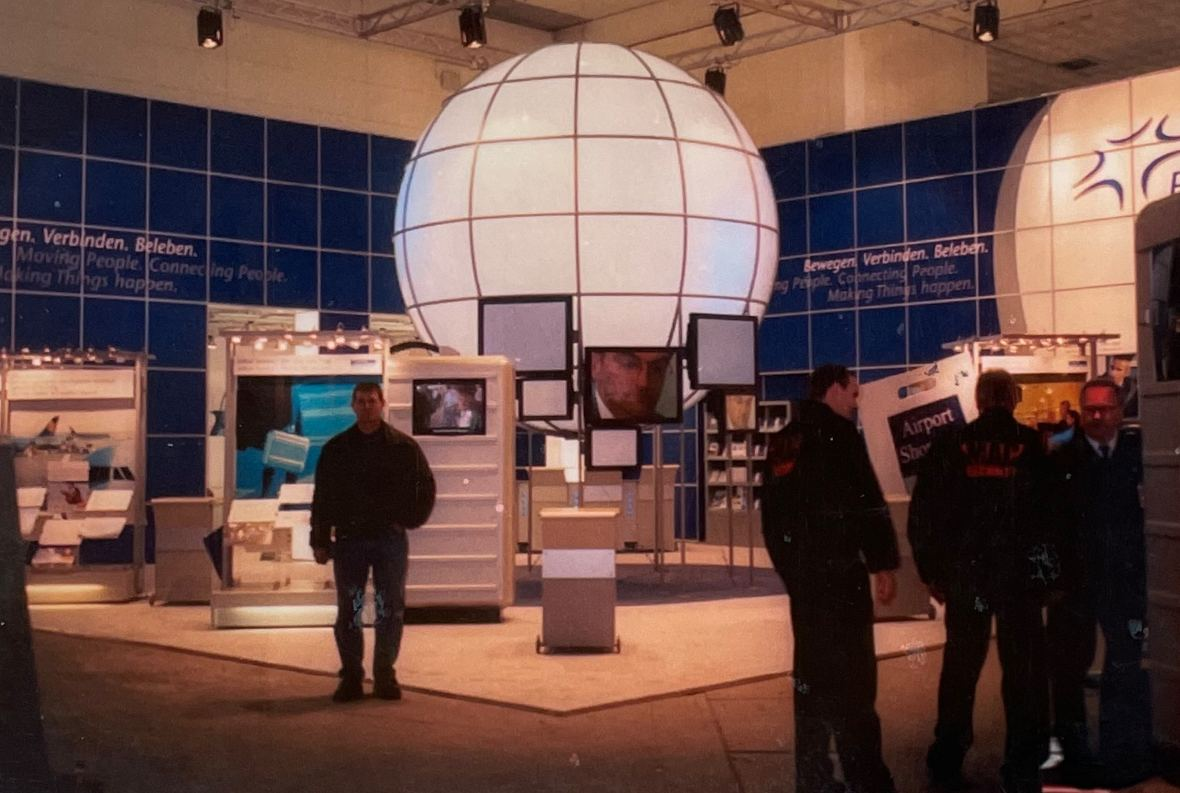
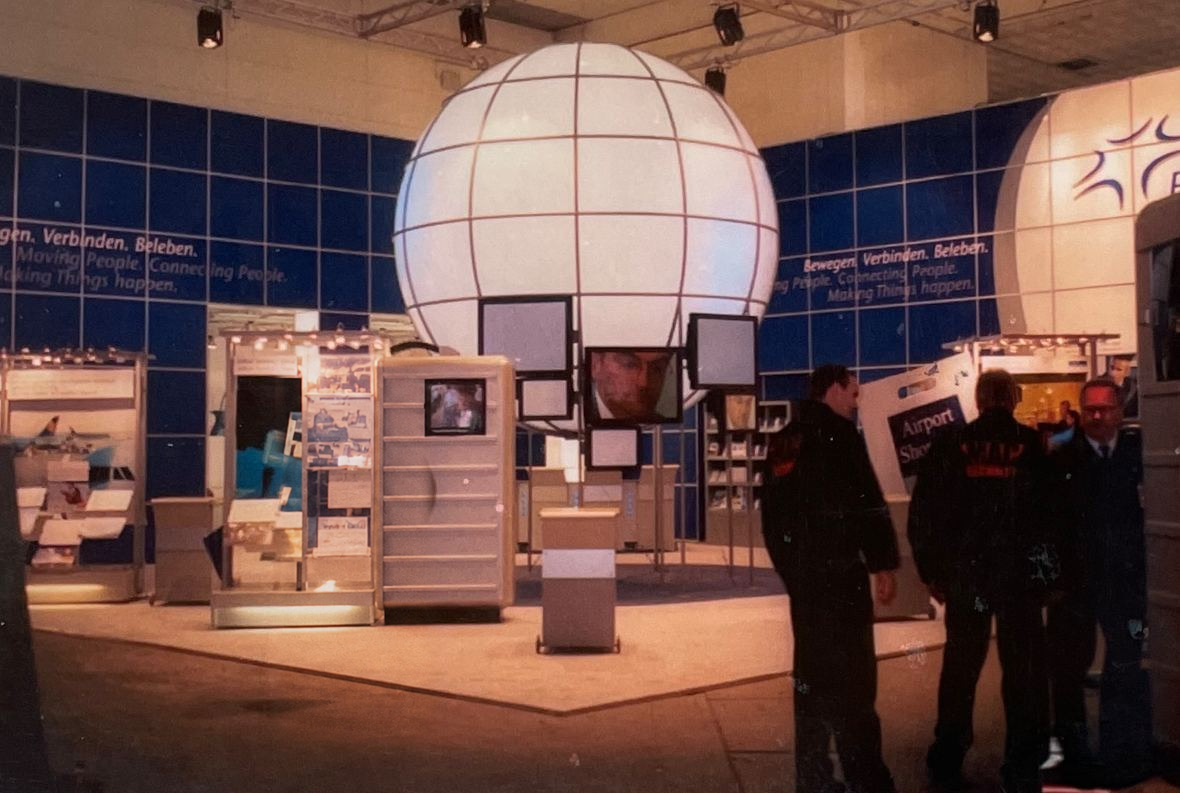
Historie-Teaser: Kugel vollständig, Person retuschiert; 6 Referenzbilder raus; Leistungen-Claim ohne makellos

Changed region(s): [[0.2136, 0.4237, 0.3661, 0.9079]]

diff --git a/referenzen/index.html b/referenzen/index.html
@@ -49,7 +49,7 @@ img:is([sizes=auto i],[sizes^="auto," i]){contain-intrinsic-size:3000px 1500px}
 <link rel="preload" href="../nxm/fonts/oxygen-300-latin.woff2" as="font" type="font/woff2" crossorigin>
 <link rel="preload" href="../nxm/fonts/oxygen-400-latin.woff2" as="font" type="font/woff2" crossorigin>
 <link rel="preload" href="../nxm/fonts/oxygen-700-latin.woff2" as="font" type="font/woff2" crossorigin>
-<link rel="stylesheet" href="../nxm/nxm.css?v=46">
+<link rel="stylesheet" href="../nxm/nxm.css?v=47">
 <meta name="theme-color" content="#141414">
 </head>
 <body class="nxm-hero wp-singular page-template page-template-page-full-width-image page-template-page-full-width-image-php page page-id-209 wp-theme-erdel">
@@ -121,20 +121,6 @@ img:is([sizes=auto i],[sizes^="auto," i]){contain-intrinsic-size:3000px 1500px}
                     <h2>
                         Einblicke in unsere&nbsp;Arbeit                    </h2>
                 </div>
-                                        <div class="col-12 col-sm-4 portfolio-item">
-                    <div class="gallery-image-container">
-                            <a href="./#" class="fl-gallery">
-                                <img decoding="async" class="img-fluid" src="../wp-content/uploads/2022/10/erdel-metallbau-kelkheim-rhein-main-metallbauer-unternehmen-galerie-referenzen-42.jpg" title="erdel-metallbau-kelkheim-rhein-main-metallbauer-unternehmen-galerie-referenzen (42)" alt="" />
-                            </a>
-                    </div>
-                </div>
-                            <div class="col-12 col-sm-4 portfolio-item">
-                    <div class="gallery-image-container">
-                            <a href="./#" class="fl-gallery">
-                                <img decoding="async" class="img-fluid" src="../wp-content/uploads/2022/10/erdel-metallbau-kelkheim-rhein-main-metallbauer-unternehmen-galerie-referenzen-27.jpg" title="erdel-metallbau-kelkheim-rhein-main-metallbauer-unternehmen-galerie-referenzen (27)" alt="" />
-                            </a>
-                    </div>
-                </div>
                             <div class="col-12 col-sm-4 portfolio-item">
                     <div class="gallery-image-container">
                             <a href="./#" class="fl-gallery">
@@ -145,21 +131,7 @@ img:is([sizes=auto i],[sizes^="auto," i]){contain-intrinsic-size:3000px 1500px}
                             <div class="col-12 col-sm-4 portfolio-item">
                     <div class="gallery-image-container">
                             <a href="./#" class="fl-gallery">
-                                <img decoding="async" class="img-fluid" src="../wp-content/uploads/2022/10/erdel-metallbau-kelkheim-rhein-main-metallbauer-unternehmen-galerie-referenzen-22.jpg" title="erdel-metallbau-kelkheim-rhein-main-metallbauer-unternehmen-galerie-referenzen (22)" alt="" />
-                            </a>
-                    </div>
-                </div>
-                            <div class="col-12 col-sm-4 portfolio-item">
-                    <div class="gallery-image-container">
-                            <a href="./#" class="fl-gallery">
                                 <img decoding="async" class="img-fluid" src="../wp-content/uploads/2022/10/erdel-metallbau-kelkheim-rhein-main-metallbauer-unternehmen-galerie-referenzen-17.jpg" title="erdel-metallbau-kelkheim-rhein-main-metallbauer-unternehmen-galerie-referenzen (17)" alt="" />
-                            </a>
-                    </div>
-                </div>
-                            <div class="col-12 col-sm-4 portfolio-item">
-                    <div class="gallery-image-container">
-                            <a href="./#" class="fl-gallery">
-                                <img decoding="async" class="img-fluid" src="../wp-content/uploads/2022/10/erdel-metallbau-kelkheim-rhein-main-metallbauer-unternehmen-galerie-referenzen-14.jpg" title="erdel-metallbau-kelkheim-rhein-main-metallbauer-unternehmen-galerie-referenzen (14)" alt="" />
                             </a>
                     </div>
                 </div>
@@ -237,20 +209,6 @@ img:is([sizes=auto i],[sizes^="auto," i]){contain-intrinsic-size:3000px 1500px}
                     <div class="gallery-image-container">
                             <a href="./#" class="fl-gallery">
                                 <img decoding="async" class="img-fluid" src="../wp-content/uploads/2022/10/erdel-metallbau-kelkheim-rhein-main-metallbauer-unternehmen-galerie-referenzen-10.jpg" title="erdel-metallbau-kelkheim-rhein-main-metallbauer-unternehmen-galerie-referenzen (10)" alt="" />
-                            </a>
-                    </div>
-                </div>
-                            <div class="col-12 col-sm-4 portfolio-item">
-                    <div class="gallery-image-container">
-                            <a href="./#" class="fl-gallery">
-                                <img decoding="async" class="img-fluid" src="../wp-content/uploads/2022/10/erdel-metallbau-kelkheim-rhein-main-metallbauer-unternehmen-galerie-referenzen-3.jpg" title="erdel-metallbau-kelkheim-rhein-main-metallbauer-unternehmen-galerie-referenzen (3)" alt="" />
-                            </a>
-                    </div>
-                </div>
-                            <div class="col-12 col-sm-4 portfolio-item">
-                    <div class="gallery-image-container">
-                            <a href="./#" class="fl-gallery">
-                                <img decoding="async" class="img-fluid" src="../wp-content/uploads/2022/10/erdel-metallbau-kelkheim-rhein-main-metallbauer-unternehmen-galerie-referenzen-1.jpg" title="erdel-metallbau-kelkheim-rhein-main-metallbauer-unternehmen-galerie-referenzen (1)" alt="" />
                             </a>
                     </div>
                 </div>

diff --git a/leistungen/index.html b/leistungen/index.html
@@ -49,7 +49,7 @@ img:is([sizes=auto i],[sizes^="auto," i]){contain-intrinsic-size:3000px 1500px}
 <link rel="preload" href="../nxm/fonts/oxygen-300-latin.woff2" as="font" type="font/woff2" crossorigin>
 <link rel="preload" href="../nxm/fonts/oxygen-400-latin.woff2" as="font" type="font/woff2" crossorigin>
 <link rel="preload" href="../nxm/fonts/oxygen-700-latin.woff2" as="font" type="font/woff2" crossorigin>
-<link rel="stylesheet" href="../nxm/nxm.css?v=46">
+<link rel="stylesheet" href="../nxm/nxm.css?v=47">
 <meta name="theme-color" content="#141414">
 </head>
 <body class="nxm-hero wp-singular page-template page-template-page-full-width-image page-template-page-full-width-image-php page page-id-203 wp-theme-erdel">
@@ -86,7 +86,7 @@ img:is([sizes=auto i],[sizes^="auto," i]){contain-intrinsic-size:3000px 1500px}
         <main id="main" class="main-content">
                         <header class="main-header featured-full-width-img  bg-dark text-light mb-3" style="background-image: url('../nxm/img/haus-terrasse.jpg')">
                 <div class="container h-100 d-flex align-items-end pb-3 ms-auto p-2 bd-highlight">
-                        <h1 style="--seg:5.289">Individuell, passgenau &&nbsp;makellos.</h1>
+                        <h1 style="--seg:5.289">Individuell und&nbsp;passgenau.</h1>
                     <!--<h1 class="main-title text-right">Leistungen</h1>-->
                   
                  

diff --git a/nxm/nxm.css b/nxm/nxm.css
@@ -165,7 +165,8 @@ header.featured-full-width-img h1{width:auto;max-width:13ch;margin:0;color:#fff;
 .malu-1 .row{margin-top:clamp(10px,2vw,28px)!important}
 .teaser-block{max-height:none;overflow:hidden}
 .teaser-block>a{display:block;overflow:hidden}
-.teaser-block img{display:block;width:100%;height:clamp(260px,38vw,560px);object-fit:cover;transition:transform 1.2s var(--nxm-ease-out)}
+.teaser-block img{display:block;width:100%;height:clamp(260px,38vw,640px);object-fit:cover;transition:transform 1.2s var(--nxm-ease-out)}
+.teaser-block img[src$="weltkugel.jpg"]{object-position:50% 8%}
 .teaser-block:hover img{transform:scale(1.04)}
 .teaser-text h2{font-size:clamp(32px,3.2vw,52px);font-weight:300;letter-spacing:-.035em;line-height:1.05}
 .teaser-text .more-item{display:inline-flex;align-items:center;gap:10px;font-size:18px;font-weight:600;text-decoration:none;color:var(--nxm-ink);border-bottom:1px solid var(--nxm-ink);padding-bottom:4px}

diff --git a/bewerbungsformular/index.html b/bewerbungsformular/index.html
@@ -59,7 +59,7 @@ img:is([sizes=auto i],[sizes^="auto," i]){contain-intrinsic-size:3000px 1500px}
 <link rel="preload" href="../nxm/fonts/oxygen-300-latin.woff2" as="font" type="font/woff2" crossorigin>
 <link rel="preload" href="../nxm/fonts/oxygen-400-latin.woff2" as="font" type="font/woff2" crossorigin>
 <link rel="preload" href="../nxm/fonts/oxygen-700-latin.woff2" as="font" type="font/woff2" crossorigin>
-<link rel="stylesheet" href="../nxm/nxm.css?v=46">
+<link rel="stylesheet" href="../nxm/nxm.css?v=47">
 <meta name="theme-color" content="#141414">
 </head>
 <body class="nxm-nohero wp-singular page-template page-template-page-blank-with-container page-template-page-blank-with-container-php page page-id-701 wp-theme-erdel">

diff --git a/hoermann/index.html b/hoermann/index.html
@@ -49,7 +49,7 @@ img:is([sizes=auto i],[sizes^="auto," i]){contain-intrinsic-size:3000px 1500px}
 <link rel="preload" href="../nxm/fonts/oxygen-300-latin.woff2" as="font" type="font/woff2" crossorigin>
 <link rel="preload" href="../nxm/fonts/oxygen-400-latin.woff2" as="font" type="font/woff2" crossorigin>
 <link rel="preload" href="../nxm/fonts/oxygen-700-latin.woff2" as="font" type="font/woff2" crossorigin>
-<link rel="stylesheet" href="../nxm/nxm.css?v=46">
+<link rel="stylesheet" href="../nxm/nxm.css?v=47">
 <meta name="theme-color" content="#141414">
 </head>
 <body class="nxm-hero wp-singular page-template page-template-page-full-width-image page-template-page-full-width-image-php page page-id-1115 wp-theme-erdel">

diff --git a/jobs/index.html b/jobs/index.html
@@ -49,7 +49,7 @@ img:is([sizes=auto i],[sizes^="auto," i]){contain-intrinsic-size:3000px 1500px}
 <link rel="preload" href="../nxm/fonts/oxygen-300-latin.woff2" as="font" type="font/woff2" crossorigin>
 <link rel="preload" href="../nxm/fonts/oxygen-400-latin.woff2" as="font" type="font/woff2" crossorigin>
 <link rel="preload" href="../nxm/fonts/oxygen-700-latin.woff2" as="font" type="font/woff2" crossorigin>
-<link rel="stylesheet" href="../nxm/nxm.css?v=46">
+<link rel="stylesheet" href="../nxm/nxm.css?v=47">
 <meta name="theme-color" content="#141414">
 </head>
 <body class="nxm-hero wp-singular page-template page-template-page-full-width-image page-template-page-full-width-image-php page page-id-217 wp-theme-erdel">

diff --git a/kalkulator-job1/index.html b/kalkulator-job1/index.html
@@ -49,7 +49,7 @@ img:is([sizes=auto i],[sizes^="auto," i]){contain-intrinsic-size:3000px 1500px}
 <link rel="preload" href="../nxm/fonts/oxygen-300-latin.woff2" as="font" type="font/woff2" crossorigin>
 <link rel="preload" href="../nxm/fonts/oxygen-400-latin.woff2" as="font" type="font/woff2" crossorigin>
 <link rel="preload" href="../nxm/fonts/oxygen-700-latin.woff2" as="font" type="font/woff2" crossorigin>
-<link rel="stylesheet" href="../nxm/nxm.css?v=46">
+<link rel="stylesheet" href="../nxm/nxm.css?v=47">
 <meta name="theme-color" content="#141414">
 </head>
 <body class="nxm-hero wp-singular page-template page-template-page-full-width-image page-template-page-full-width-image-php page page-id-672 wp-theme-erdel">

diff --git a/historie/index.html b/historie/index.html
@@ -49,7 +49,7 @@ img:is([sizes=auto i],[sizes^="auto," i]){contain-intrinsic-size:3000px 1500px}
 <link rel="preload" href="../nxm/fonts/oxygen-300-latin.woff2" as="font" type="font/woff2" crossorigin>
 <link rel="preload" href="../nxm/fonts/oxygen-400-latin.woff2" as="font" type="font/woff2" crossorigin>
 <link rel="preload" href="../nxm/fonts/oxygen-700-latin.woff2" as="font" type="font/woff2" crossorigin>
-<link rel="stylesheet" href="../nxm/nxm.css?v=46">
+<link rel="stylesheet" href="../nxm/nxm.css?v=47">
 <meta name="theme-color" content="#141414">
 </head>
 <body class="nxm-hero wp-singular page-template page-template-page-full-width-image page-template-page-full-width-image-php page page-id-91 wp-theme-erdel">

diff --git a/kontakt/index.html b/kontakt/index.html
@@ -57,7 +57,7 @@ img:is([sizes=auto i],[sizes^="auto," i]){contain-intrinsic-size:3000px 1500px}
 <link rel="preload" href="../nxm/fonts/oxygen-300-latin.woff2" as="font" type="font/woff2" crossorigin>
 <link rel="preload" href="../nxm/fonts/oxygen-400-latin.woff2" as="font" type="font/woff2" crossorigin>
 <link rel="preload" href="../nxm/fonts/oxygen-700-latin.woff2" as="font" type="font/woff2" crossorigin>
-<link rel="stylesheet" href="../nxm/nxm.css?v=46">
+<link rel="stylesheet" href="../nxm/nxm.css?v=47">
 <meta name="theme-color" content="#141414">
 </head>
 <body class="nxm-hero wp-singular page-template page-template-page-full-width-image page-template-page-full-width-image-php page page-id-96 wp-theme-erdel">

diff --git a/datenschutzerklaerung/index.html b/datenschutzerklaerung/index.html
@@ -49,7 +49,7 @@ img:is([sizes=auto i],[sizes^="auto," i]){contain-intrinsic-size:3000px 1500px}
 <link rel="preload" href="../nxm/fonts/oxygen-300-latin.woff2" as="font" type="font/woff2" crossorigin>
 <link rel="preload" href="../nxm/fonts/oxygen-400-latin.woff2" as="font" type="font/woff2" crossorigin>
 <link rel="preload" href="../nxm/fonts/oxygen-700-latin.woff2" as="font" type="font/woff2" crossorigin>
-<link rel="stylesheet" href="../nxm/nxm.css?v=46">
+<link rel="stylesheet" href="../nxm/nxm.css?v=47">
 <meta name="theme-color" content="#141414">
 </head>
 <body class="nxm-nohero wp-singular page-template page-template-page-sidebar-none page-template-page-sidebar-none-php page page-id-509 wp-theme-erdel">

diff --git a/impressum/index.html b/impressum/index.html
@@ -49,7 +49,7 @@ img:is([sizes=auto i],[sizes^="auto," i]){contain-intrinsic-size:3000px 1500px}
 <link rel="preload" href="../nxm/fonts/oxygen-300-latin.woff2" as="font" type="font/woff2" crossorigin>
 <link rel="preload" href="../nxm/fonts/oxygen-400-latin.woff2" as="font" type="font/woff2" crossorigin>
 <link rel="preload" href="../nxm/fonts/oxygen-700-latin.woff2" as="font" type="font/woff2" crossorigin>
-<link rel="stylesheet" href="../nxm/nxm.css?v=46">
+<link rel="stylesheet" href="../nxm/nxm.css?v=47">
 <meta name="theme-color" content="#141414">
 </head>
 <body class="nxm-nohero wp-singular page-template page-template-page-sidebar-none page-template-page-sidebar-none-php page page-id-503 wp-theme-erdel">

diff --git a/konfiguration-tore/index.html b/konfiguration-tore/index.html
@@ -58,7 +58,7 @@ img:is([sizes=auto i],[sizes^="auto," i]){contain-intrinsic-size:3000px 1500px}
 <link rel="preload" href="../nxm/fonts/oxygen-300-latin.woff2" as="font" type="font/woff2" crossorigin>
 <link rel="preload" href="../nxm/fonts/oxygen-400-latin.woff2" as="font" type="font/woff2" crossorigin>
 <link rel="preload" href="../nxm/fonts/oxygen-700-latin.woff2" as="font" type="font/woff2" crossorigin>
-<link rel="stylesheet" href="../nxm/nxm.css?v=46">
+<link rel="stylesheet" href="../nxm/nxm.css?v=47">
 <meta name="theme-color" content="#141414">
 </head>
 <body class="nxm-hero wp-singular page-template page-template-page-sidebar-none page-template-page-sidebar-none-php page page-id-1138 wp-theme-erdel">
